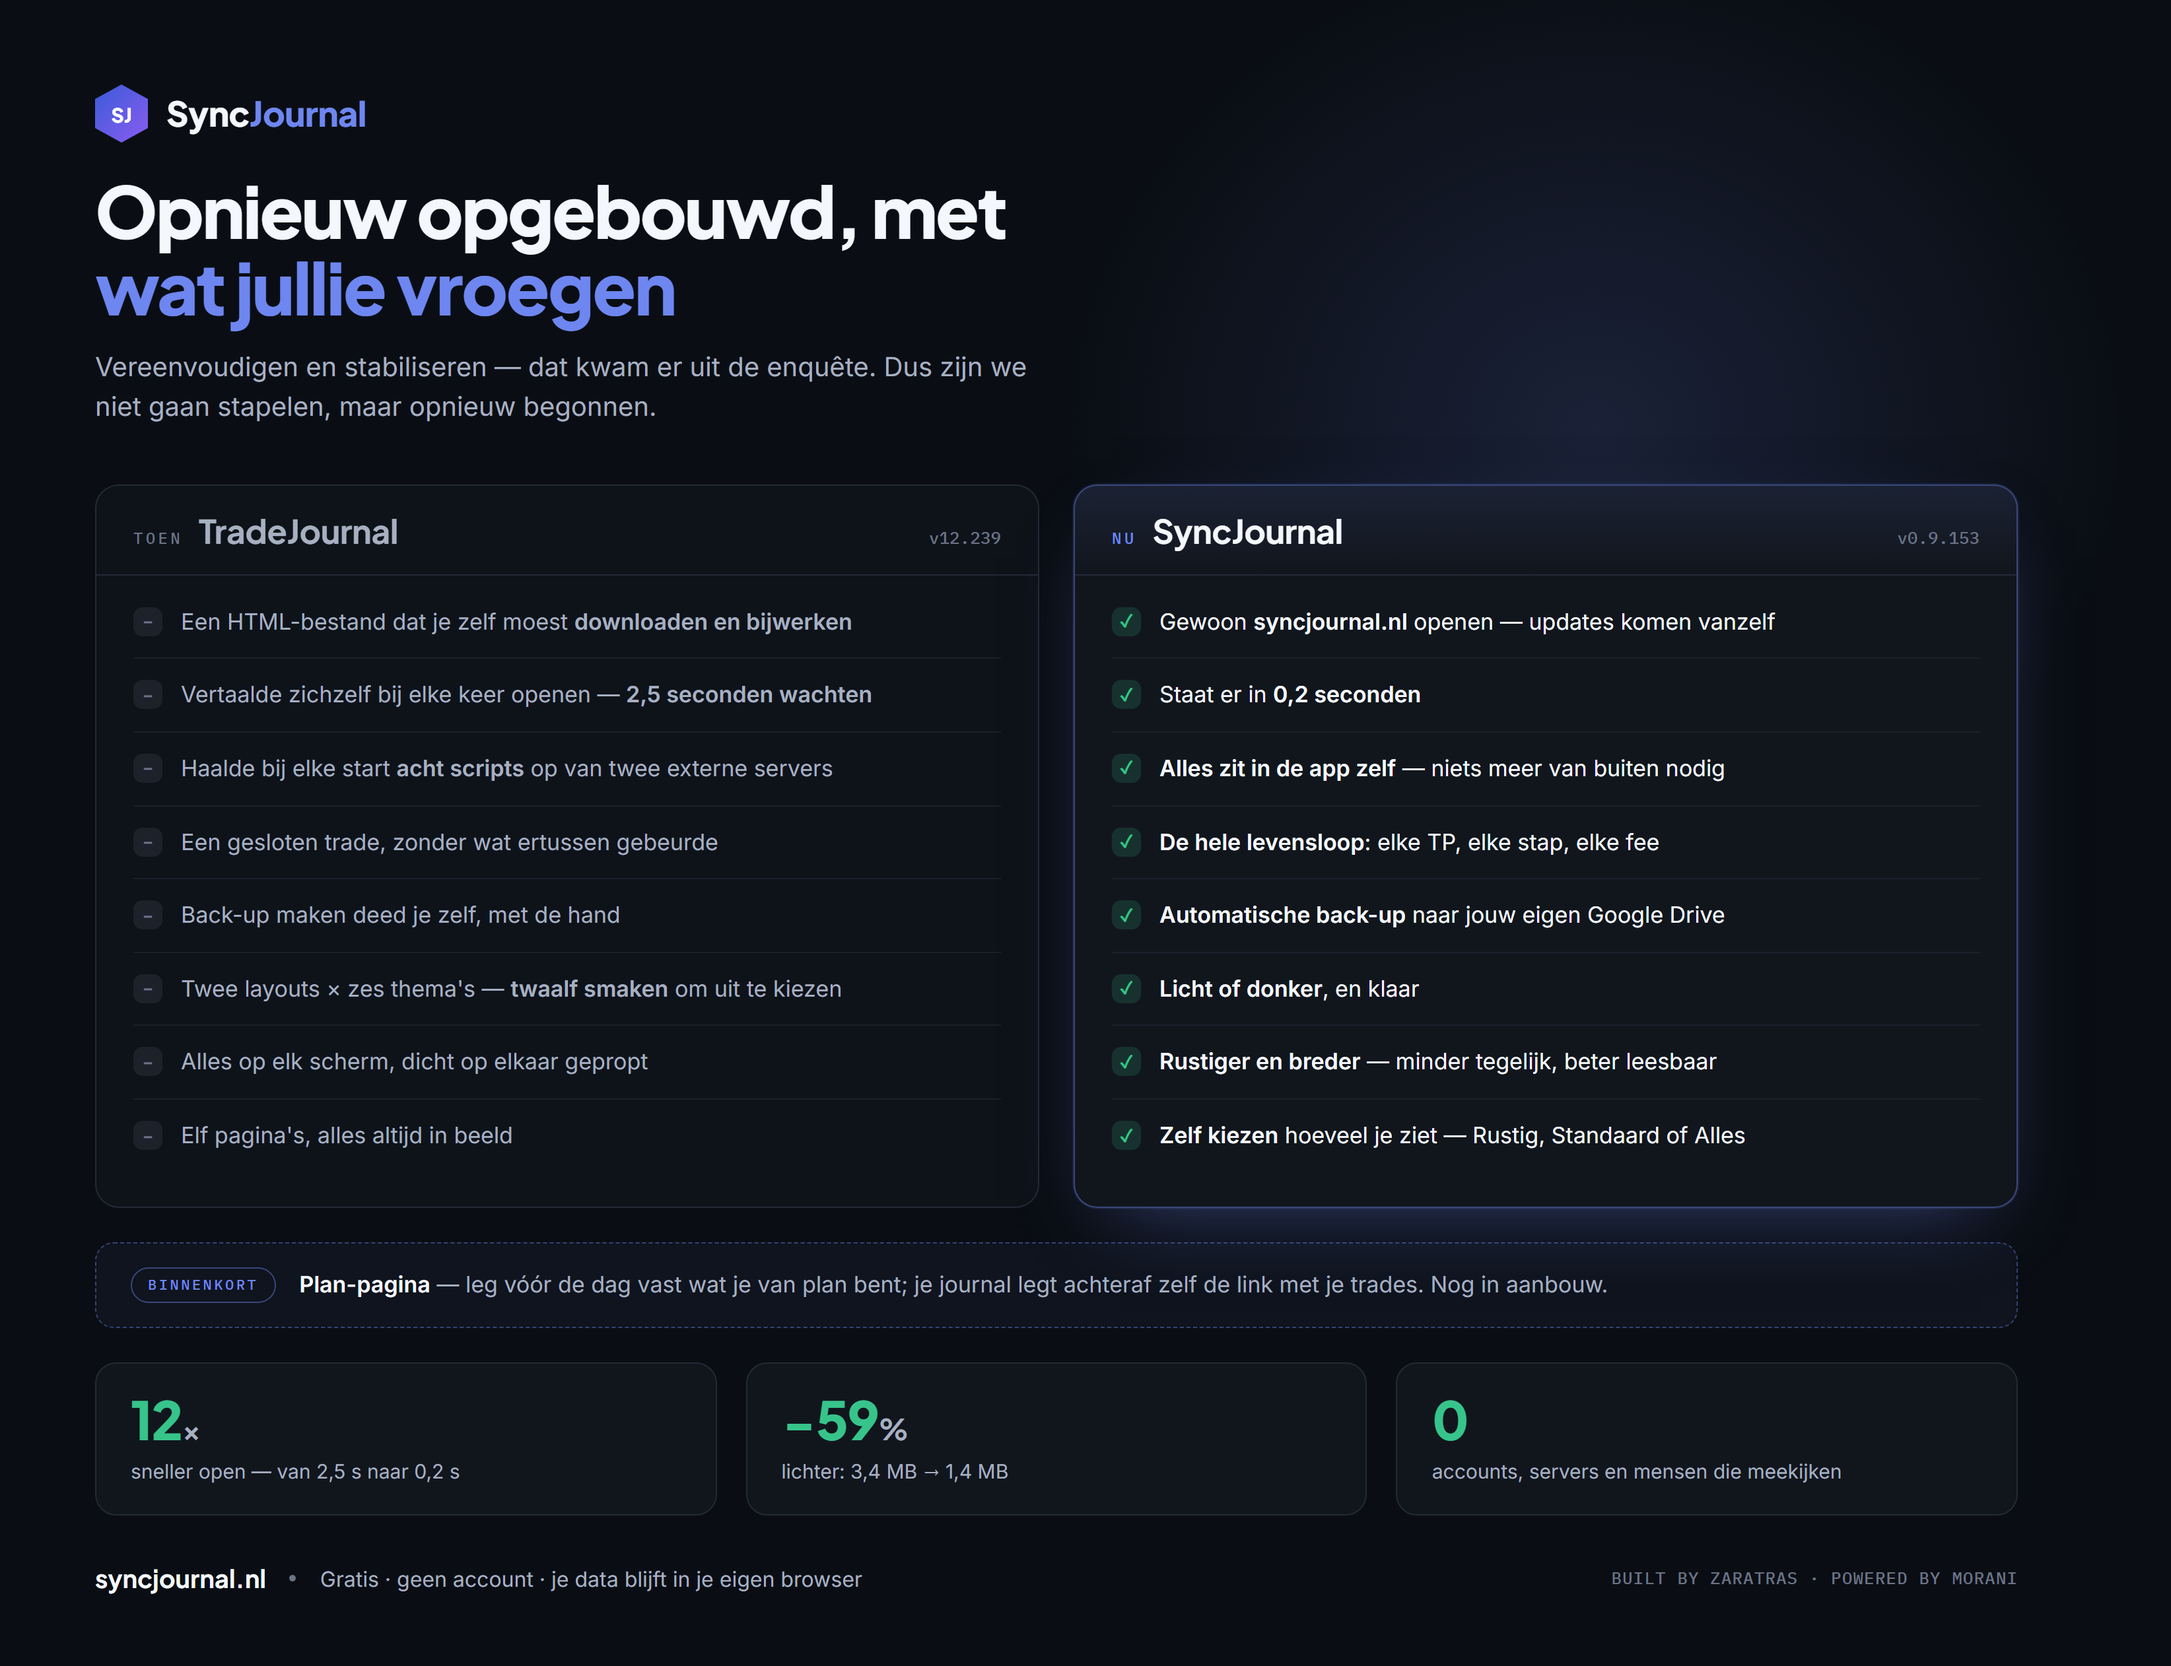
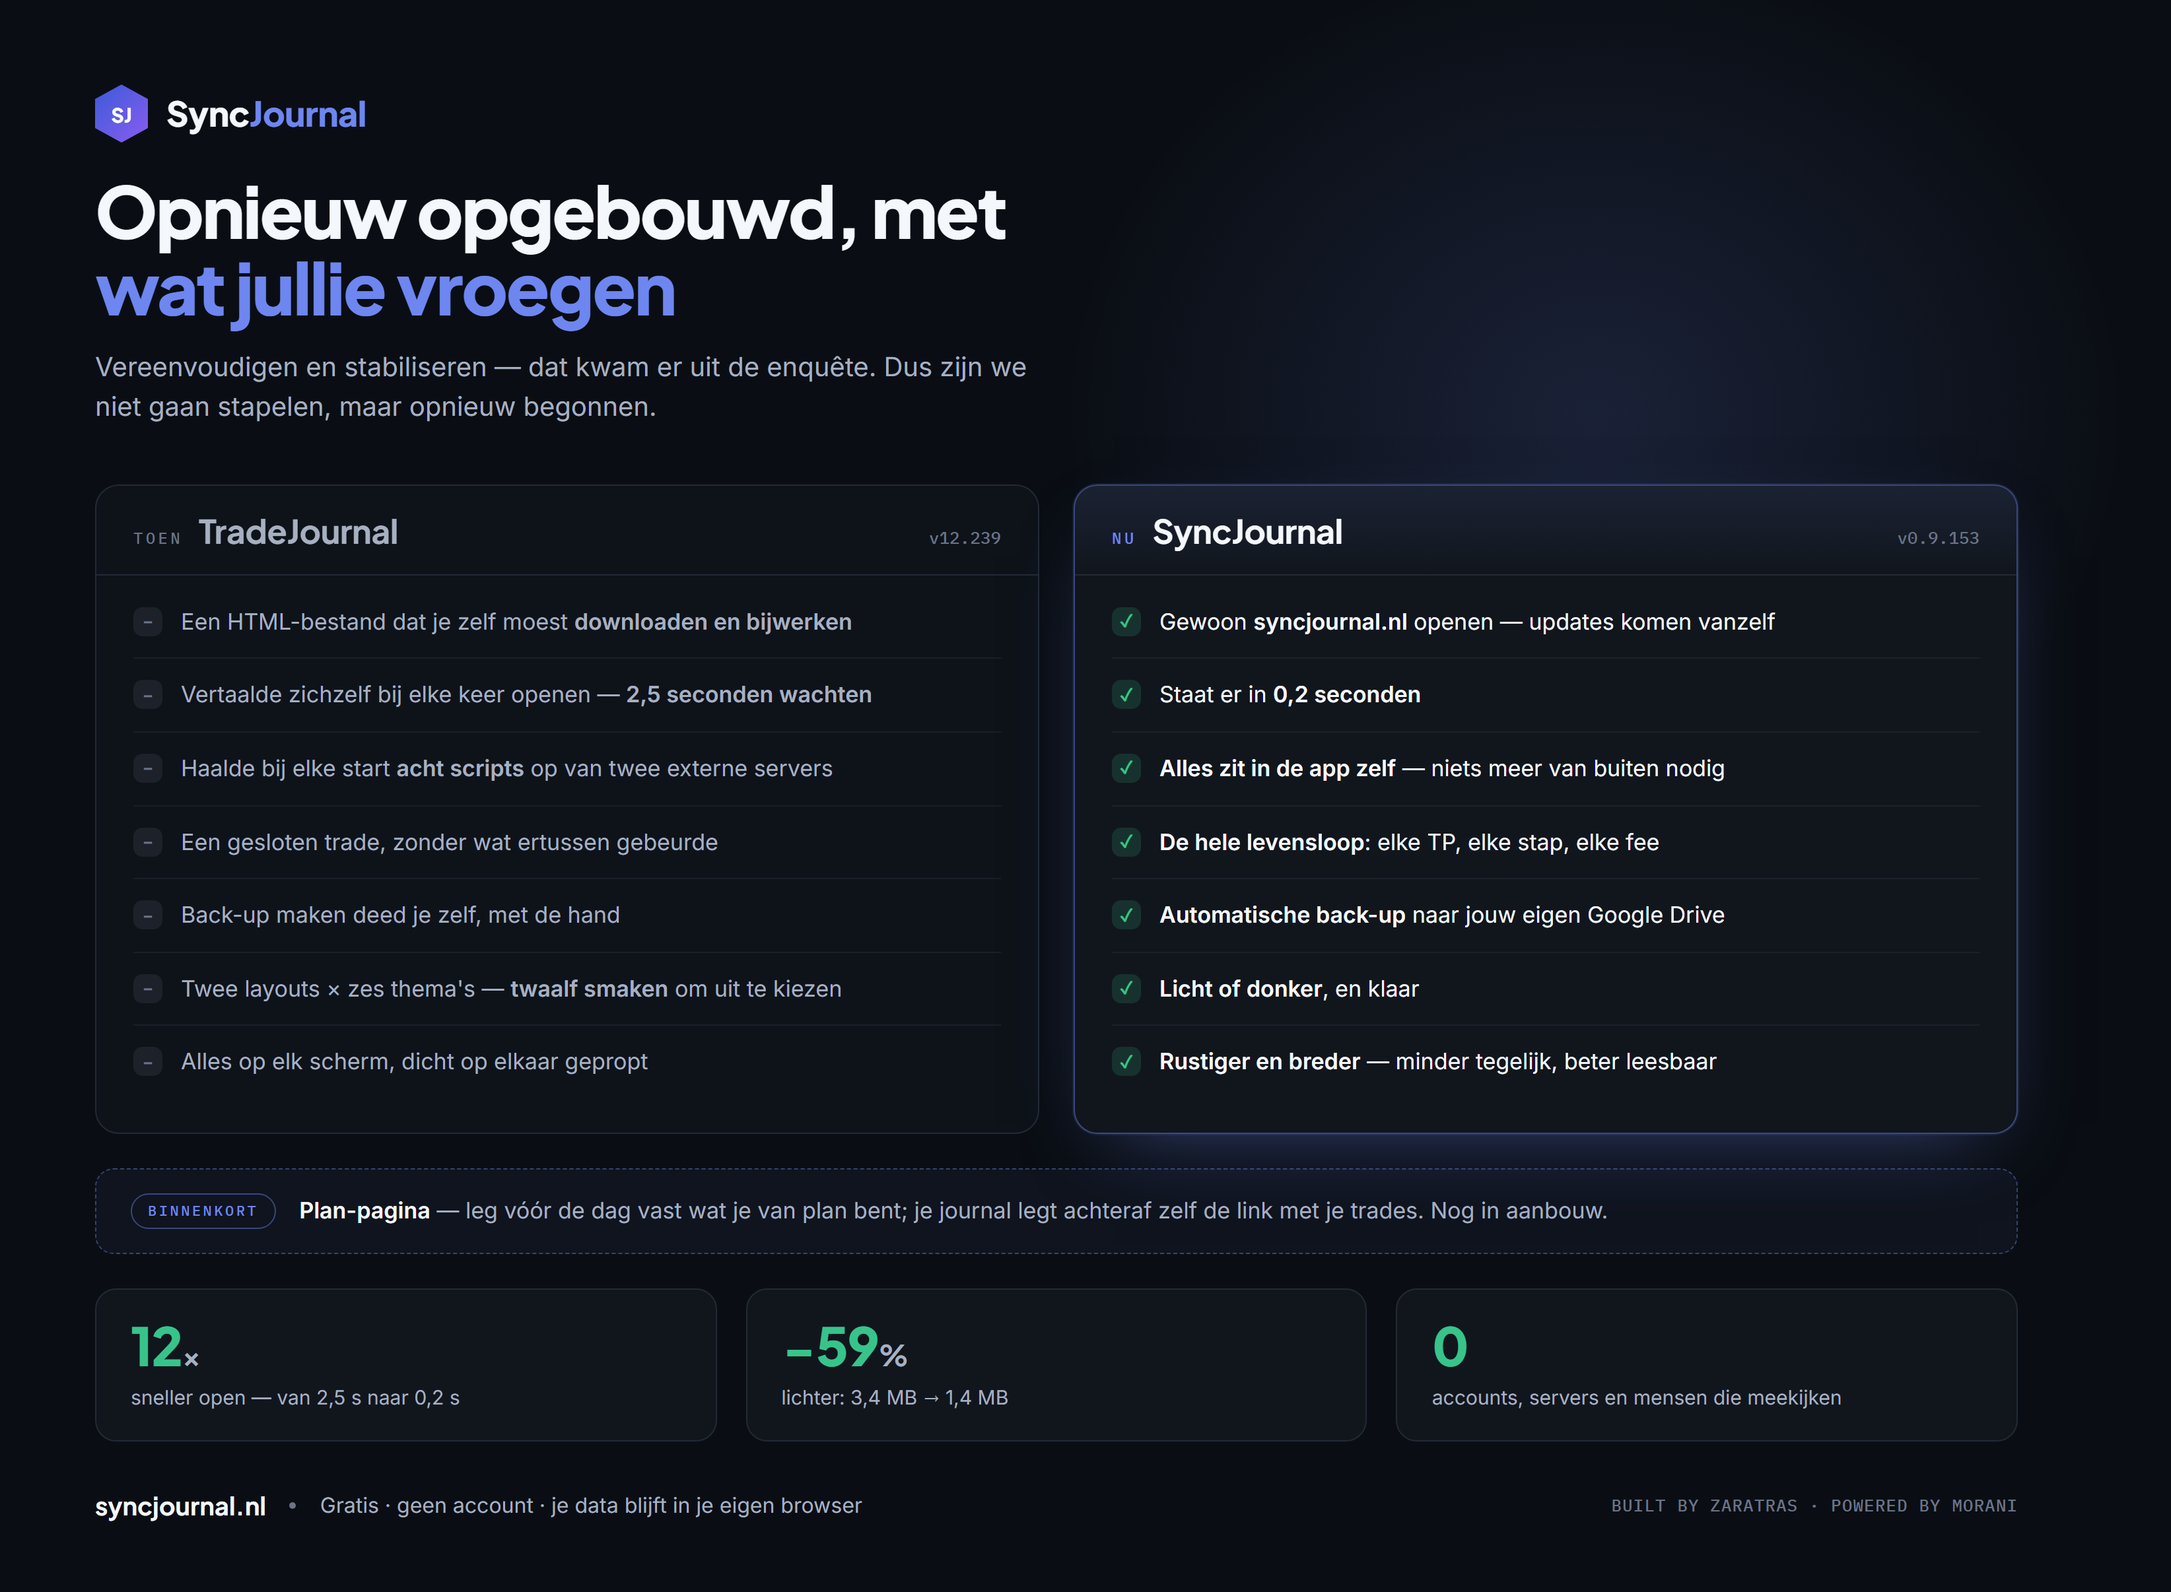
docs: drop the pages pair -- it was wrong twice over
Denny asked what "elf pagina's, alles altijd in beeld" was supposed to mean, since
the old journal works with tabs. He is right, and checking it made things worse:
both apps have eleven pages, so the count is not even a difference. And the other
half of the pair does not hold either -- the view presets (Rustig / Standaard /
Alles) were already in the old journal.

Removed, leaving seven pairs that all survive checking. Both entries are on the
do-not-claim list with the reason.

That is the fifth claim Denny has taken out today. Worth noting the pattern: the
ones that broke were the ones I inferred from counting occurrences rather than
reading what the code does.

diff --git a/demos/release-vergelijking.html b/demos/release-vergelijking.html
@@ -112,7 +112,6 @@
         <li><span class="ic">–</span><span>Back-up maken deed je zelf, met de hand</span></li>
         <li><span class="ic">–</span><span>Twee layouts × zes thema's — <b>twaalf smaken</b> om uit te kiezen</span></li>
         <li><span class="ic">–</span><span>Alles op elk scherm, dicht op elkaar gepropt</span></li>
-        <li><span class="ic">–</span><span>Elf pagina's, alles altijd in beeld</span></li>
       </ul>
     </section>
 
@@ -130,7 +129,6 @@
         <li><span class="ic">✓</span><span class="toon"><b>Automatische back-up</b> naar jouw eigen Google Drive</span></li>
         <li><span class="ic">✓</span><span class="toon"><b>Licht of donker</b>, en klaar</span></li>
         <li><span class="ic">✓</span><span class="toon"><b>Rustiger en breder</b> — minder tegelijk, beter leesbaar</span></li>
-        <li><span class="ic">✓</span><span class="toon"><b>Zelf kiezen</b> hoeveel je ziet — Rustig, Standaard of Alles</span></li>
       </ul>
     </section>
 

diff --git a/docs/discord-release-syncjournal.md b/docs/discord-release-syncjournal.md
@@ -93,6 +93,10 @@ Morgenavond loop ik het live met jullie door. 📓
   heeft internet nodig om te laden; er is geen service worker. De oude journal was weliswaar een
   bestand op je computer, maar haalde bij elke start code op van twee CDN's, dus die werkte óók niet
   offline. Wat je wél mag zeggen: *"geen externe code meer nodig om te starten"*.
+- *"elf pagina's, alles altijd in beeld"* — stond er eerst; onjuist op twee manieren. De oude
+  journal werkte met tabs, dus er was altijd één scherm zichtbaar, én beide apps hebben elf pagina's.
+- *"zelf kiezen hoeveel je ziet"* als nieuw — de weergave-presets (Rustig / Standaard / Alles) zaten
+  ook al in de oude journal. Geen verschil, dus eruit.
 - *"alles is meegenomen"* — dat is niet zo.
 - *"sneller dan elke andere journal"* — niet gemeten.
 - De **30 seconden** die een eerdere meting gaf: die kwam doordat het netwerk geblokkeerd was en
